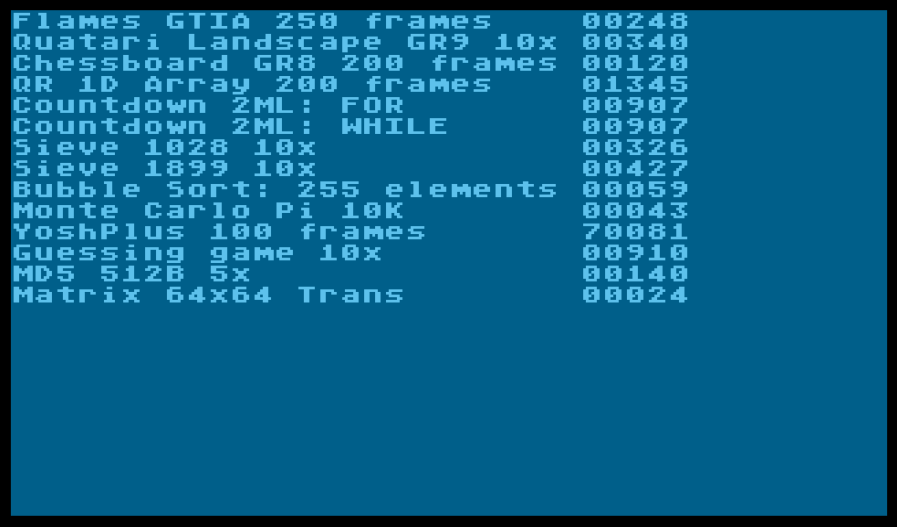
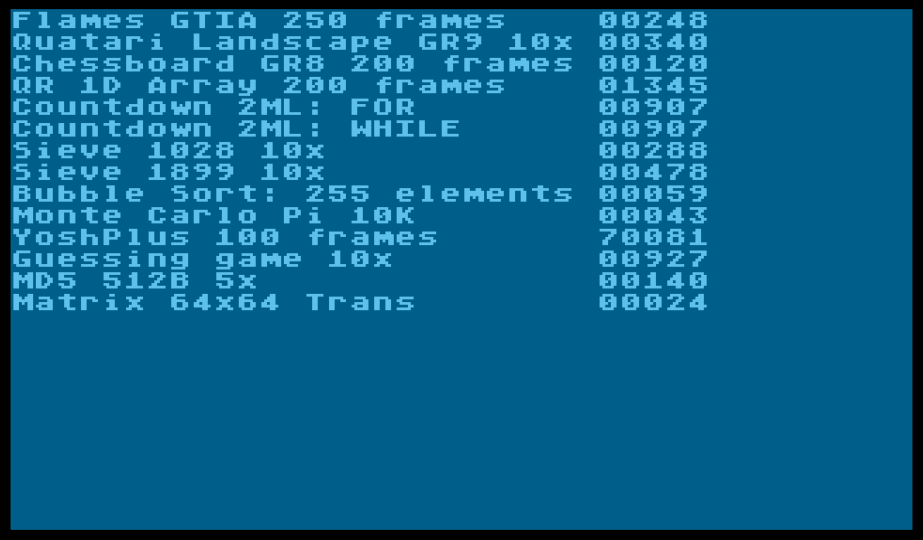
Remove 1899 loop optimisation
but use a custom memory clearing function as memset is very slow and skewing the results

diff --git a/src/sieve1899.c b/src/sieve1899.c
@@ -1,6 +1,7 @@
 
 #include <atari-xl.h>
 #include <string.h>
+#include <6502.h>
 #include "atari-system.h"
 #include "counter.h"
 #include "gr.h"
@@ -22,25 +23,17 @@ void runSieve1899() {
 
 word benchmarkSieve1899() {
 	word k, prime;
-	char strikeout;
 	word count = 0;
 	for (char loop: 9..0) {
-		memset(sieveFlags, 1, 0x2000);
+		clearSieveData();
 		count = 0;
 		word i = 0;
-		strikeout = 1;
 		for (word i = 0; i < 0x2000; i++) {
 			if (sieveFlags[i] != 0) {
 				prime = 3 + i * 2;
 				count++;
-				if (strikeout != 0) {
-					if (prime > 127) {
-						strikeout = 0;
-					} else {
-						for (k = i + prime; k < 0x2000; k += prime) {
-							sieveFlags[k] = 0;
-						}
-					}
+				for (k = i + prime; k < 0x2000; k += prime) {
+					sieveFlags[k] = 0;
 				}
 			}
 		}

diff --git a/src/sieve.c b/src/sieve.c
@@ -1,0 +1,12 @@
+#include <stdlib.h>
+
+// This is quicker than the library routine memset by about 40 frames.
+void clearSieveData() {
+	uint8_t *p = sieveFlags;
+	for (register uint8_t i: 0..0x1f) {
+		for (register uint8_t j: 0..0xff) {
+			*(p + j) = 1;
+		}
+		p += 0x100;
+	}
+}

diff --git a/src/sieve1028.c b/src/sieve1028.c
@@ -25,7 +25,7 @@ word benchmarkSieve1028() {
 	word count = 0;
 	word k;
 	for (char loop: 0..9) {
-		memset(sieveFlags, 1, 0x2000);
+		clearSieveData();
 		for (char n: 2..91) {
 			if (sieveFlags[n] != 0) {
 				for (k = n << 1; k < 0x2000; k += n) {

diff --git a/src/sieve.h b/src/sieve.h
@@ -1,2 +1,4 @@
 // used by both sieve routines
 char * const sieveFlags = 0x6000; // 8k (0x2000) bytes for sieve table
+
+void clearSieveData();
